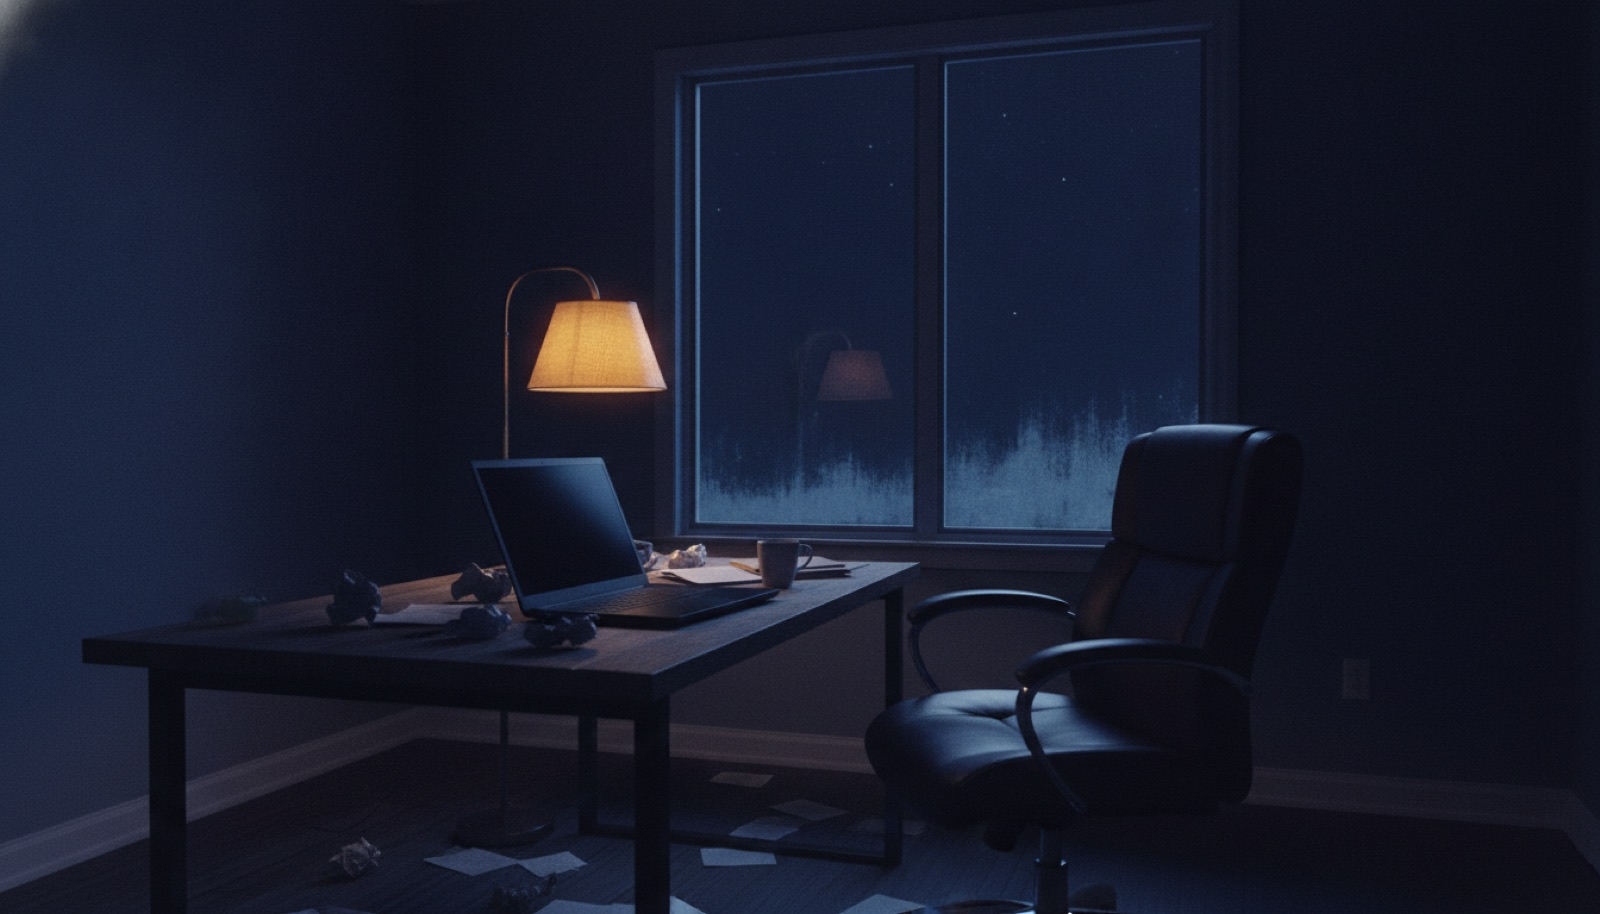
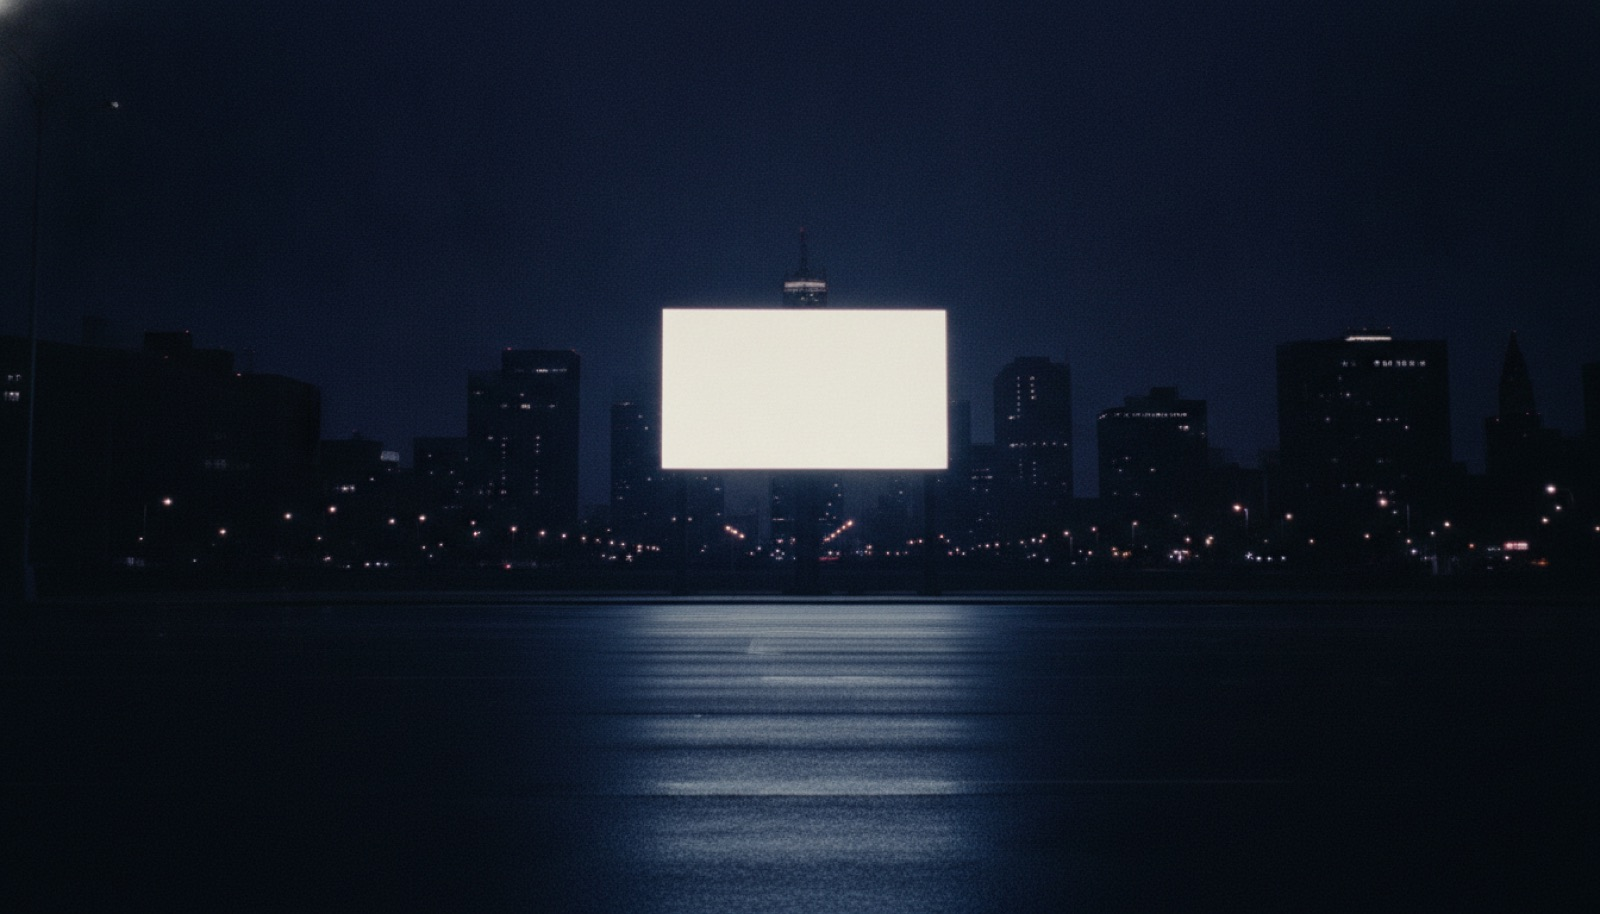
Replace Ad2Action image with blank billboard over empty street, lighten header to #2D3154

diff --git a/src/components/Header.tsx b/src/components/Header.tsx
@@ -22,7 +22,7 @@ export default function Header() {
 
   return (
     <header
-      className="fixed top-0 left-0 right-0 z-50 bg-[#1A1B2E] transition-shadow duration-300"
+      className="fixed top-0 left-0 right-0 z-50 bg-[#2D3154] transition-shadow duration-300"
       style={{
         boxShadow: scrolled ? "0 1px 0 rgba(170,187,204,0.13)" : "none",
       }}
@@ -84,7 +84,7 @@ export default function Header() {
 
       {/* Mobile menu */}
       {mobileOpen && (
-        <div className="lg:hidden bg-[#1A1B2E] w-full px-6 pt-6 pb-12 border-t border-[rgba(170,187,204,0.13)]">
+        <div className="lg:hidden bg-[#2D3154] w-full px-6 pt-6 pb-12 border-t border-[rgba(170,187,204,0.13)]">
           <nav className="flex flex-col gap-8">
             {navLinks.map((link, i) => (
               <Link